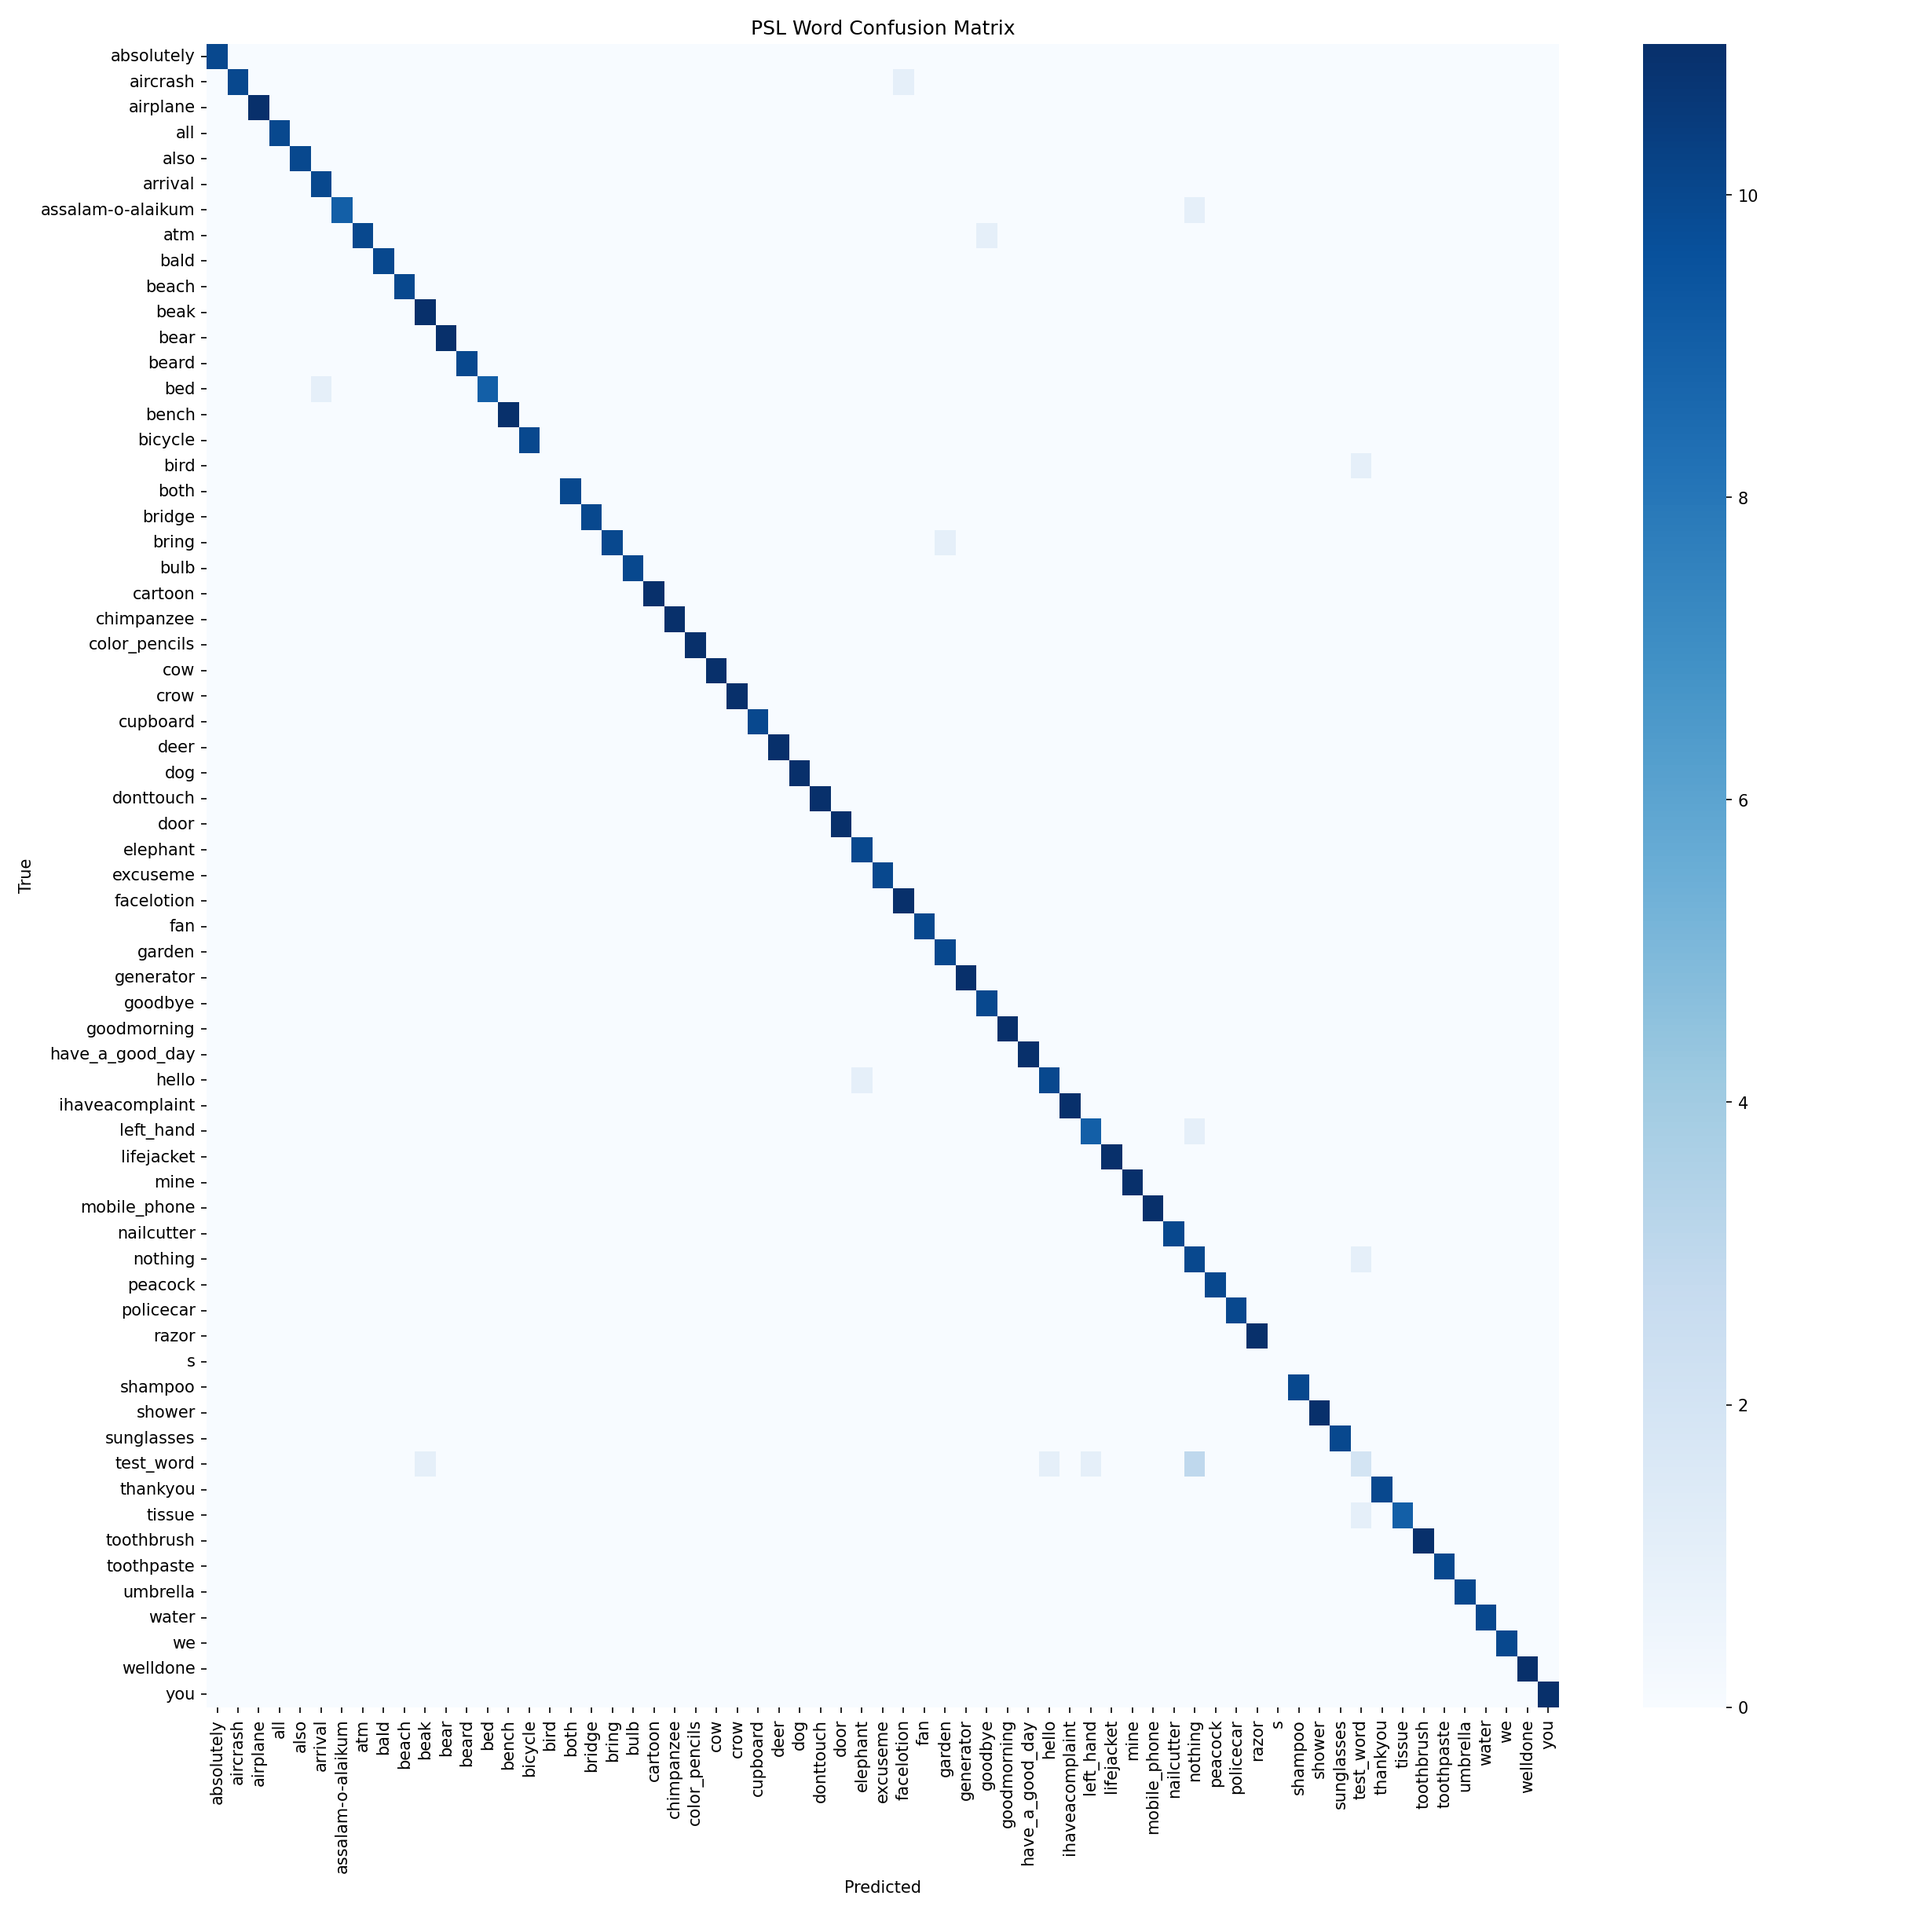
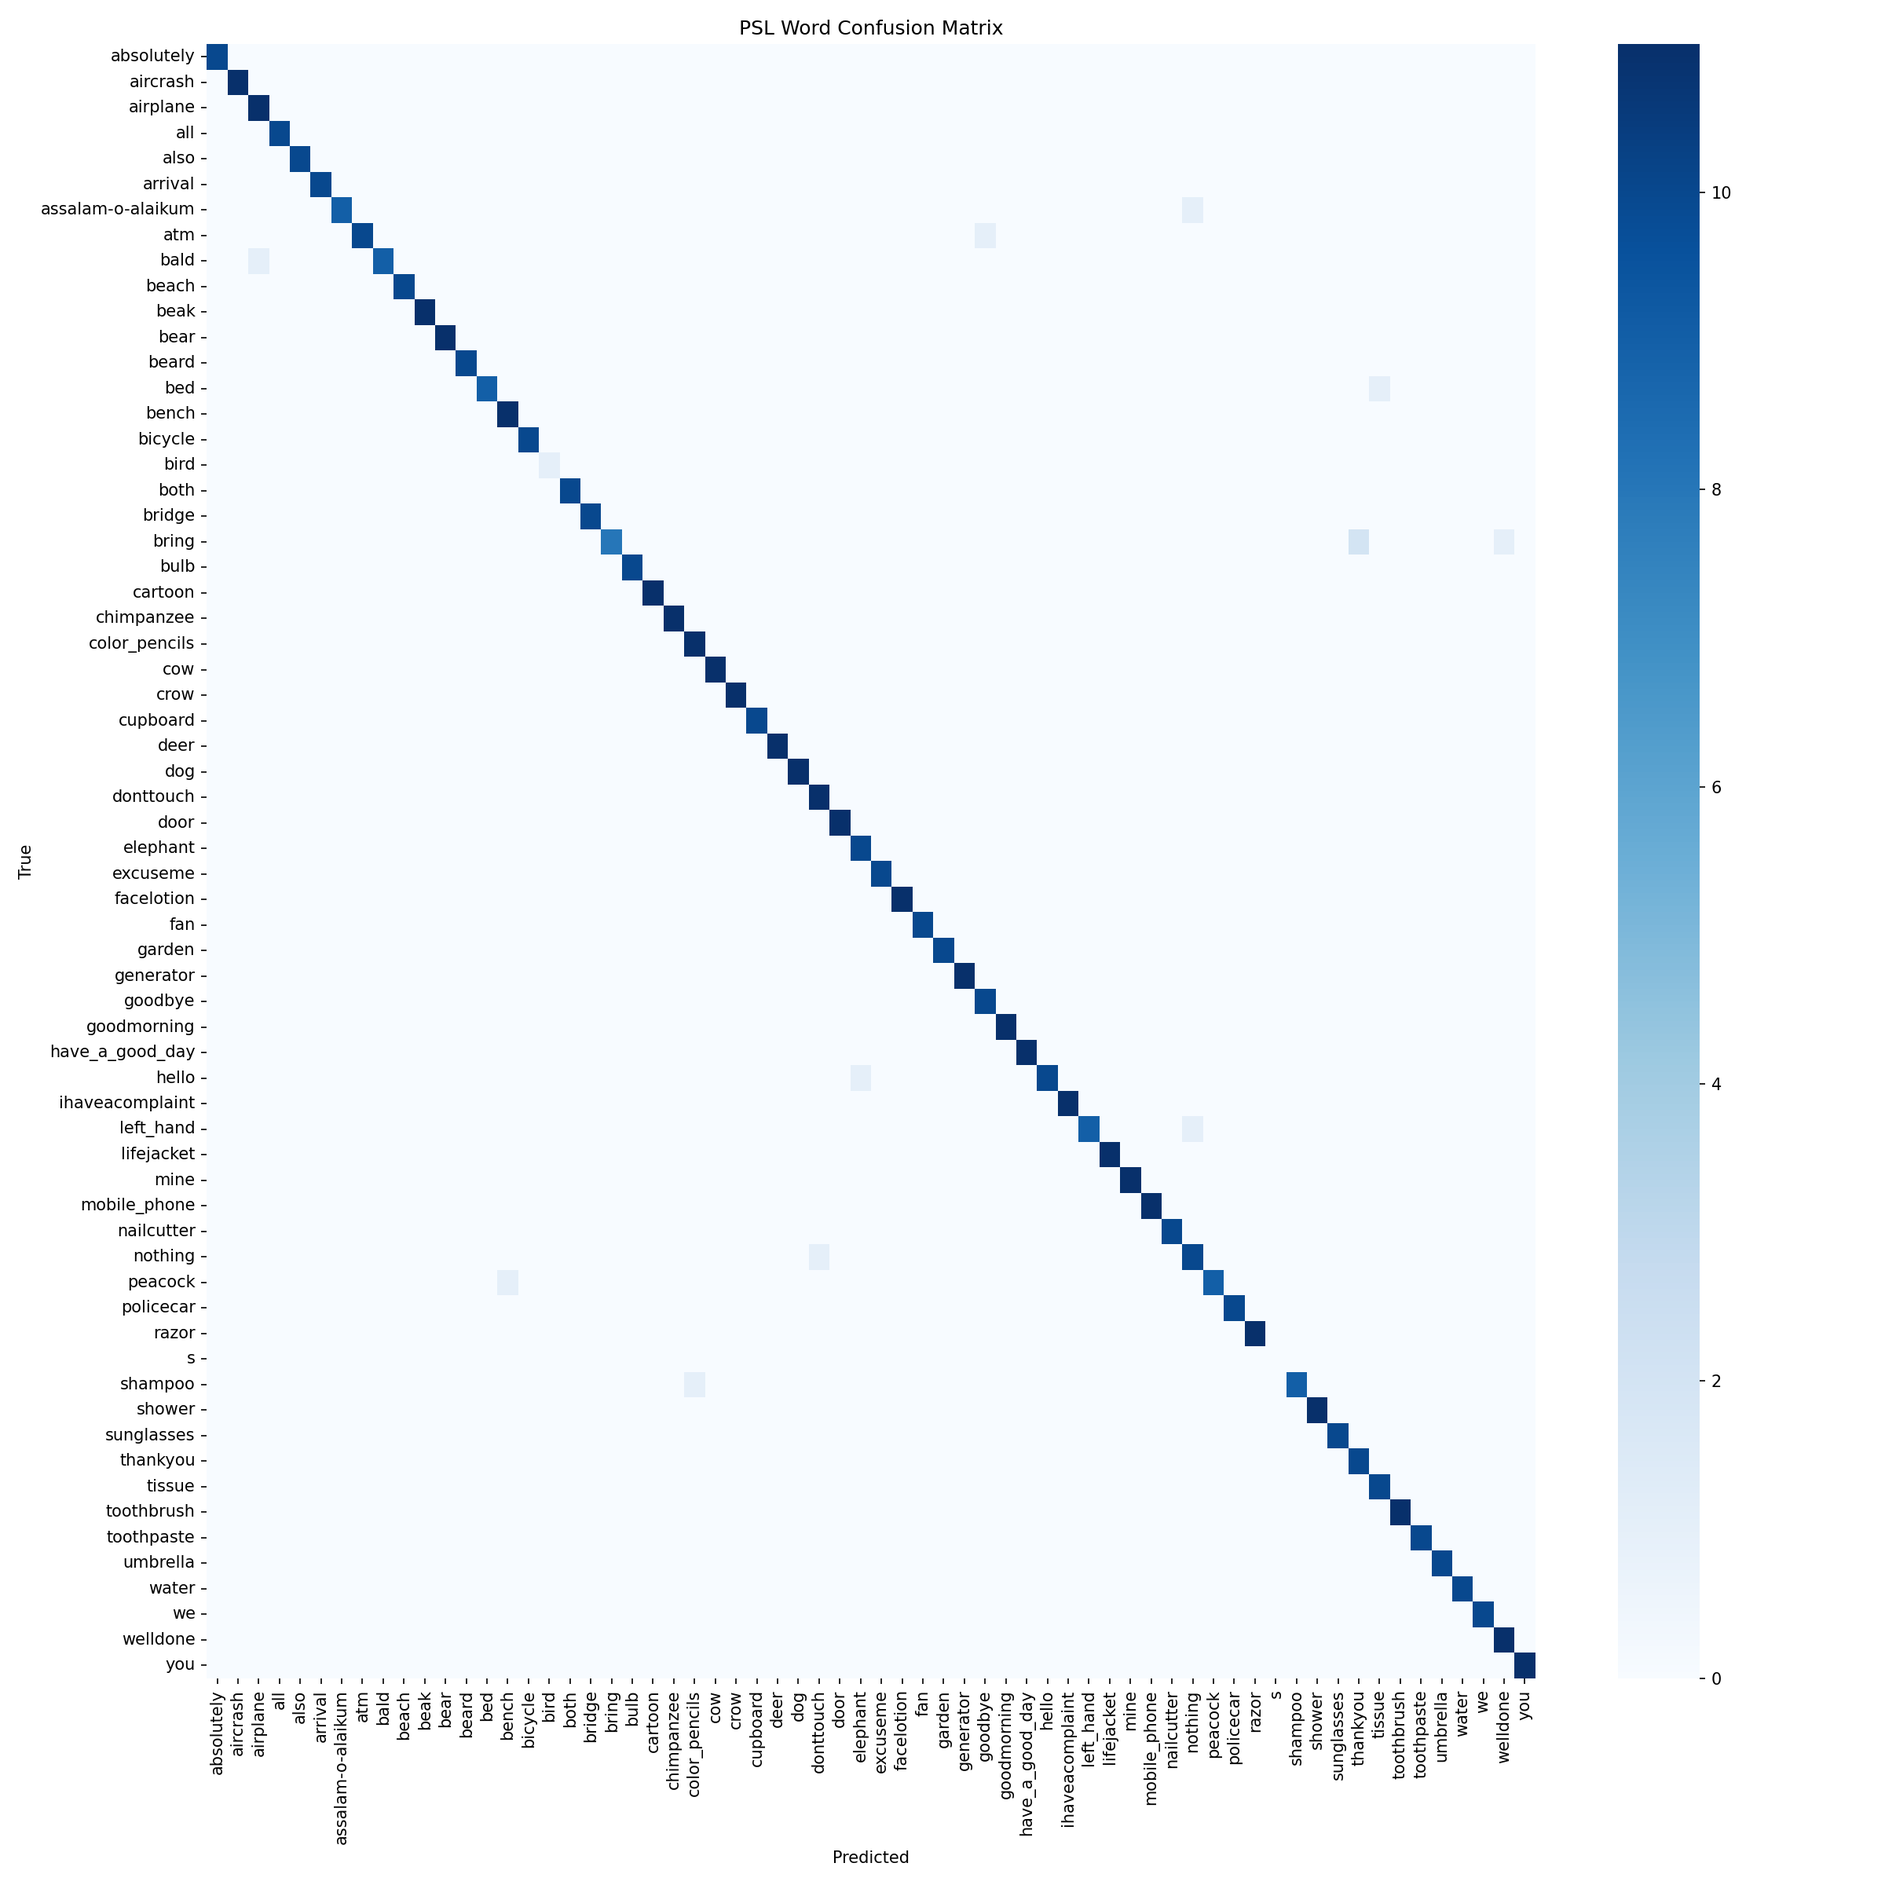
Dropped test_word class and fixed MediaPipe handedness bug
test_word was a non-semantic catch-all whose features overlapped
ordinary idle frames, so at inference time it absorbed any ambiguous
motion. Training now filters it at load time using EXCLUDE_CLASSES
without requiring preprocessing to be rerun.

Inference was also flipping the webcam frame before passing it to
MediaPipe, which inverted Left/Right handedness and scrambled the
per-hand slots relative to how the training data was extracted. The
frame is now processed un-flipped and mirrored only for display.

Retrain test accuracy: 98.16% top-1, 99.39% top-5 over 64 classes.

diff --git a/src/training/train_psl_words.py b/src/training/train_psl_words.py
@@ -18,6 +18,7 @@ import matplotlib.pyplot as plt
 import seaborn as sns
 from sklearn.metrics import classification_report, confusion_matrix
 from sklearn.utils.class_weight import compute_class_weight
+from sklearn.preprocessing import LabelEncoder
 
 # ---------------------------------------------------------------------
 # Configuration
@@ -25,6 +26,11 @@ from sklearn.utils.class_weight import compute_class_weight
 DATA_DIR = "data/psl_word_processed"
 MODEL_DIR = "models/psl_words"
 os.makedirs(MODEL_DIR, exist_ok=True)
+
+# Classes to exclude from training (junk / non-semantic labels).
+# The preprocessed .npy files still contain them; we filter at load time
+# so we don't need to rerun preprocessing.
+EXCLUDE_CLASSES = {"test_word"}
 
 BATCH_SIZE = 32
 EPOCHS = 80
@@ -118,7 +124,38 @@ def main():
     y_val = np.load(os.path.join(DATA_DIR, "y_val.npy"))
     X_test = np.load(os.path.join(DATA_DIR, "X_test.npy"))
     y_test = np.load(os.path.join(DATA_DIR, "y_test.npy"))
-    label_encoder = joblib.load(os.path.join(DATA_DIR, "label_encoder.pkl"))
+    src_encoder = joblib.load(os.path.join(DATA_DIR, "label_encoder.pkl"))
+
+    # Filter excluded classes and re-index labels to a dense 0..N-1 space.
+    if EXCLUDE_CLASSES:
+        src_classes = list(src_encoder.classes_)
+        drop_ids = {i for i, c in enumerate(src_classes) if c in EXCLUDE_CLASSES}
+        keep_classes = [c for c in src_classes if c not in EXCLUDE_CLASSES]
+
+        def filter_split(X, y):
+            mask = ~np.isin(y, list(drop_ids))
+            return X[mask], y[mask]
+
+        before = len(y_train) + len(y_val) + len(y_test)
+        X_train, y_train = filter_split(X_train, y_train)
+        X_val,   y_val   = filter_split(X_val,   y_val)
+        X_test,  y_test  = filter_split(X_test,  y_test)
+        after = len(y_train) + len(y_val) + len(y_test)
+        print(f"  Excluded classes: {sorted(EXCLUDE_CLASSES)}")
+        print(f"  Samples dropped:  {before - after:,} / {before:,}")
+
+        label_encoder = LabelEncoder()
+        label_encoder.fit(keep_classes)
+        # Map old ids -> new ids via class-name lookup
+        old_to_new = {
+            src_classes.index(c): new_id for new_id, c in enumerate(label_encoder.classes_)
+        }
+        remap = np.vectorize(old_to_new.get)
+        y_train = remap(y_train).astype(np.int64)
+        y_val   = remap(y_val).astype(np.int64)
+        y_test  = remap(y_test).astype(np.int64)
+    else:
+        label_encoder = src_encoder
 
     _, T, F = X_train.shape
     num_classes = len(label_encoder.classes_)

diff --git a/src/inference/psl_words_v1.py b/src/inference/psl_words_v1.py
@@ -392,10 +392,23 @@ def run():
         ok, frame = cap.read()
         if not ok:
             break
-        frame = cv2.flip(frame, 1)
+        # IMPORTANT: MediaPipe's handedness classifier assumes a non-mirrored
+        # image. Process the raw frame for landmark extraction, draw the
+        # skeleton on the un-flipped frame (so coords match), then flip the
+        # whole frame for the user so the display feels like a mirror.
         h_img, w_img, _ = frame.shape
         rgb = cv2.cvtColor(frame, cv2.COLOR_BGR2RGB)
         results = hands.process(rgb)
+
+        if results.multi_hand_landmarks:
+            for hlm in results.multi_hand_landmarks:
+                mp_draw.draw_landmarks(
+                    frame, hlm, mp_hands.HAND_CONNECTIONS,
+                    mp_styles.get_default_hand_landmarks_style(),
+                    mp_styles.get_default_hand_connections_style(),
+                )
+
+        frame = cv2.flip(frame, 1)
 
         # 1. Feature extraction from this frame
         raw_vec = frame_from_mediapipe(results)
@@ -429,18 +442,10 @@ def run():
             print(f"+ {committed}  ->  {' '.join(sentence)}")
             speak_urdu(committed)
 
-        # 3. Draw overlay
+        # 3. Draw text overlay on top of the (already flipped) frame
         overlay = frame.copy()
         cv2.rectangle(overlay, (0, 0), (w_img, 260), (0, 0, 0), -1)
         frame = cv2.addWeighted(overlay, 0.5, frame, 0.5, 0)
-
-        if results.multi_hand_landmarks:
-            for hlm in results.multi_hand_landmarks:
-                mp_draw.draw_landmarks(
-                    frame, hlm, mp_hands.HAND_CONNECTIONS,
-                    mp_styles.get_default_hand_landmarks_style(),
-                    mp_styles.get_default_hand_connections_style(),
-                )
 
         color = (0, 255, 0) if top_conf > COMMIT_CONF else (0, 165, 255)
         cv2.putText(frame, f"{top_label} ({top_conf*100:.1f}%)",
